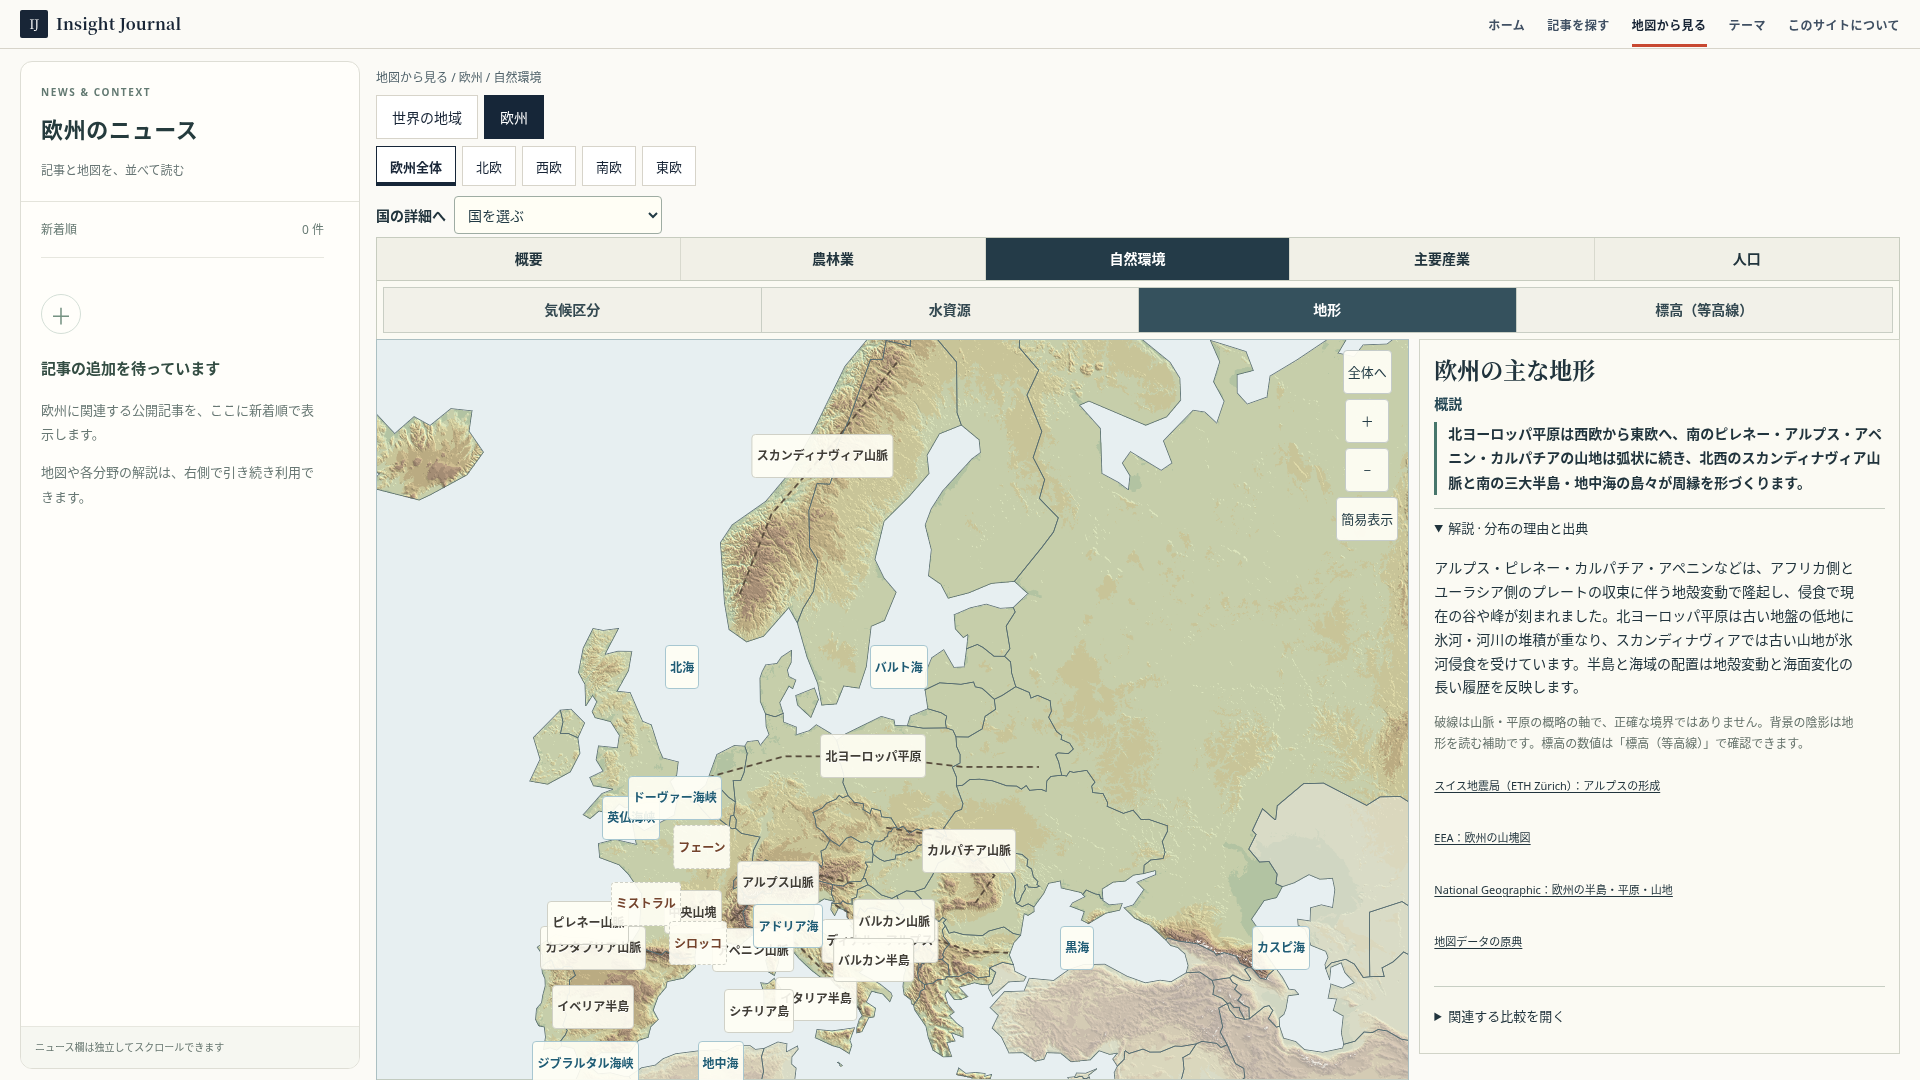
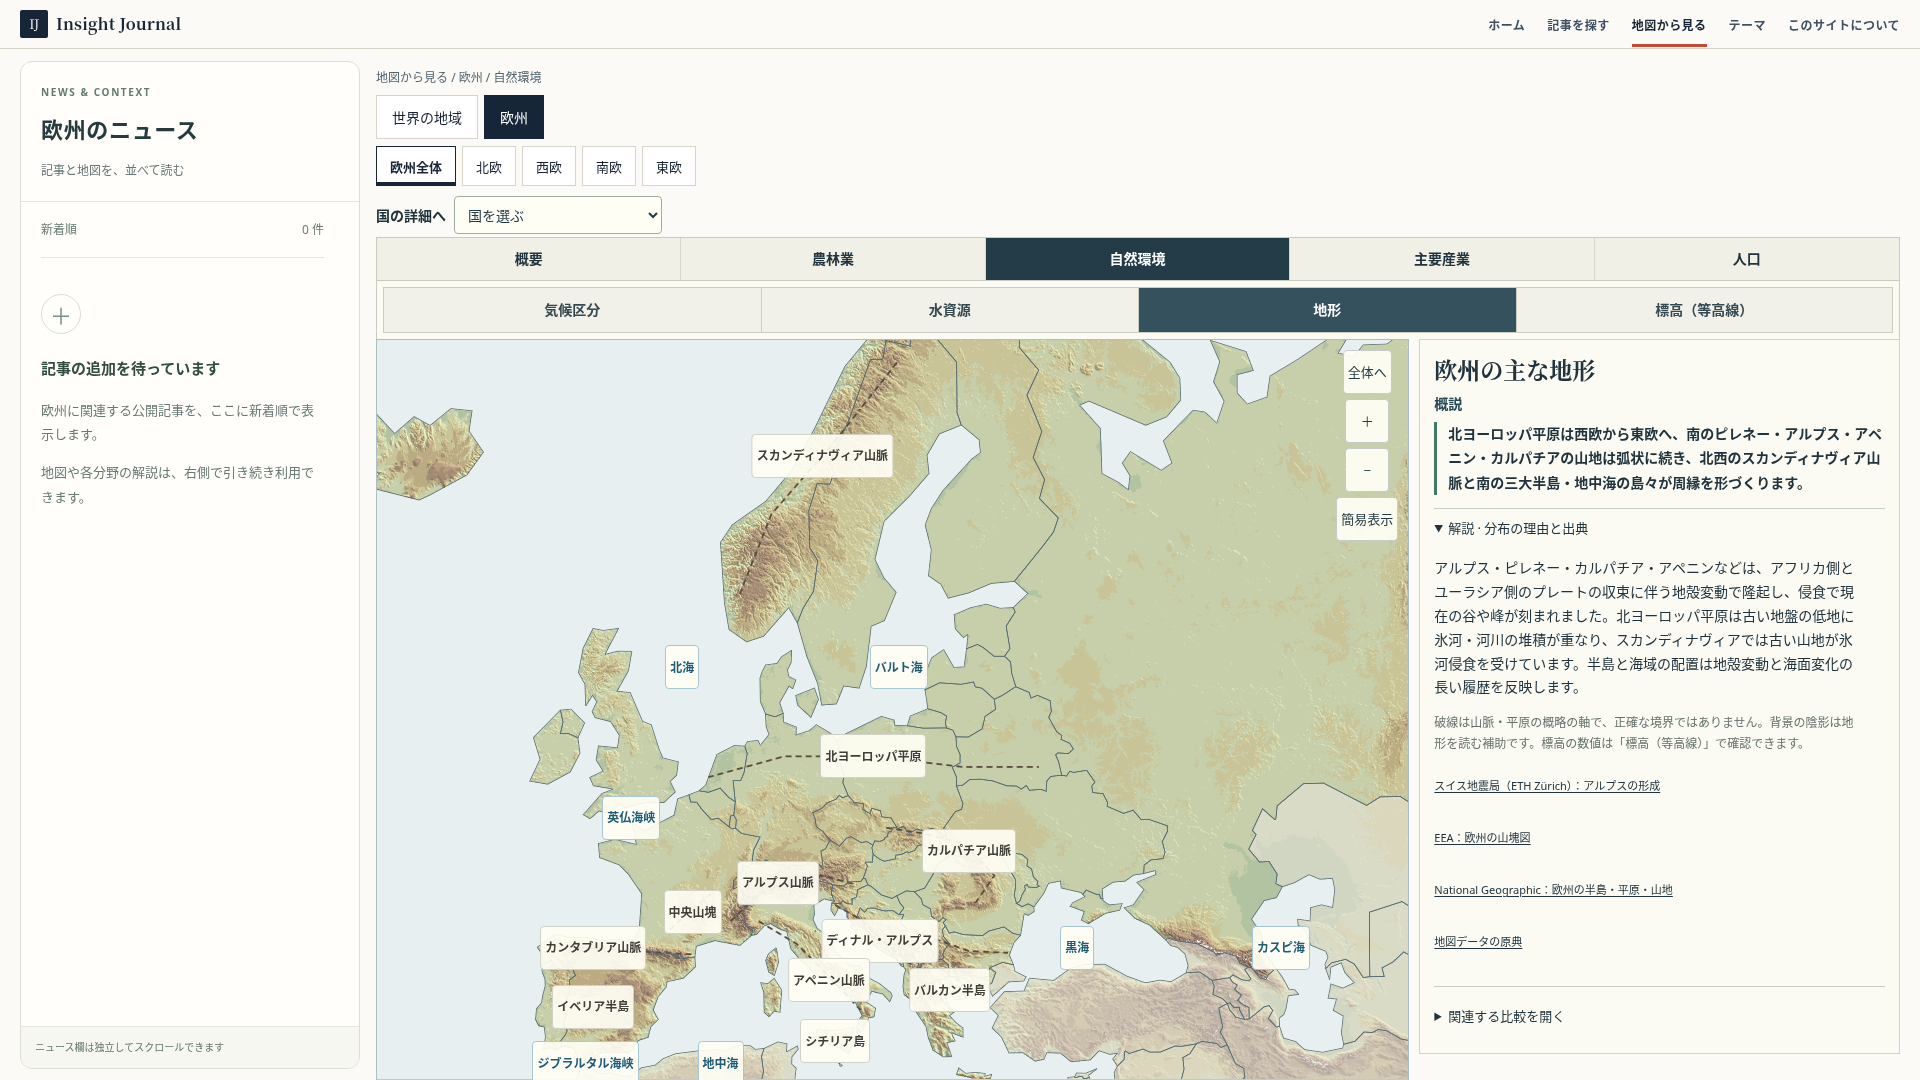
Keep Europe PC selection reachable and preserve culture zoom

Changed region(s): [[0.2812, 0.7028, 0.5312, 0.9778]]

diff --git a/src/lib/atlas-europe-explorer.ts b/src/lib/atlas-europe-explorer.ts
@@ -249,7 +249,7 @@ export function initEuropeAtlas() {
     node.setAttribute('aria-label',`${label.mm} mm等雨量線`);
     query<HTMLElement>('.eu-map-stage').append(node);return {node,label};
   });
-  const terrainLabels=[...europeTerrainGuides,...europeTerrainPlaceNames,...europeTerrainWinds].map(label=>{
+  const terrainLabels=[...europeTerrainGuides,...europeTerrainPlaceNames,...europeTerrainWinds].sort((left,right)=>Number(right.id==='alps')-Number(left.id==='alps')).map(label=>{
     const node=document.createElement('button');node.type='button';node.className='eu-terrain-place-label';
     node.dataset.euTerrainLabel=label.id;node.dataset.kind=label.kind;
     node.textContent=label.name;node.setAttribute('aria-label',`${label.name}の位置と解説`);
@@ -303,6 +303,7 @@ export function initEuropeAtlas() {
         chosen=rect;break;
       }
       if(chosen)placed.push(chosen);
+      else node.hidden=true;
     }
   }
   function setLayer(id:string, save = true) {
@@ -716,13 +717,13 @@ export function initEuropeAtlas() {
     all<SVGGElement>('[data-eu-point],[data-eu-feature-point]').forEach(g=>{const id=g.dataset.euPoint??g.dataset.euFeaturePoint;const p=[...cities,...features].find(p=>p.id===id);if(!p)return;const [x,y]=project(p.coordinates);g.querySelector('circle')?.setAttribute('r',String(5/scale));const label=g.querySelector('text');label?.setAttribute('x',String(x+9/scale));label?.setAttribute('y',String(y-9/scale));if(label)label.style.fontSize=12/scale+'px';});
   }
   function fit() {
-    const initialEthnicity=state.layer==='ethnicity'&&!state.cultureCase;
-    const bounds = initialEthnicity ? [[-6.5,49.8],[2.2,55.9]] as [[number,number],[number,number]] : cultureActive() ? [[frame.west, frame.south], [frame.east, frame.north]] as [[number,number],[number,number]] : selectionBounds();
+    const onsCulture=cultureActive()&&(state.cultureCase==='england-wales-2021'||state.layer==='ethnicity'&&!state.cultureCase);
+    const bounds = onsCulture ? [[-6.5,49.8],[2.2,55.9]] as [[number,number],[number,number]] : cultureActive() ? [[frame.west, frame.south], [frame.east, frame.north]] as [[number,number],[number,number]] : selectionBounds();
     const [left, bottom] = project(bounds[0]);
     const [right, top] = project(bounds[1]);
     const width = Math.max(right - left, 24), height = Math.max(bottom - top, 24);
     box = [(left + right - width) / 2 - width * .12, (top + bottom - height) / 2 - height * .12, width * 1.24, height * 1.24];
-    if (cultureActive()&&!initialEthnicity || subject().field!=='agriculture'&&state.region === 'all' && !state.place&&!comparisonFocus()&&!['industry','population'].includes(subject().field)&&!['climate','water','drainage','precipitation','terrain','contours'].includes(subject().id) || subject().field==='agriculture'&&!comparisonFocus()&&(state.farmExtent==='full'||!farmingView().active)) box = [0, 0, frame.width, frame.height];
+    if (cultureActive()&&!onsCulture || subject().field!=='agriculture'&&state.region === 'all' && !state.place&&!comparisonFocus()&&!['industry','population'].includes(subject().field)&&!['climate','water','drainage','precipitation','terrain','contours'].includes(subject().id) || subject().field==='agriculture'&&!comparisonFocus()&&(state.farmExtent==='full'||!farmingView().active)) box = [0, 0, frame.width, frame.height];
     else if(subject().field==='agriculture'&&!comparisonFocus()) box = [left-width*.04,top-height*.04,width*1.08,height*1.08];
     staticMap.setAttribute('viewBox', box.join(' '));
     staticSymbols();

diff --git a/docs/review/europe-2026-10-11/README.md b/docs/review/europe-2026-10-11/README.md
@@ -25,4 +25,4 @@ Chromium の production preview、1920×1080、MapLibre 読込後の画面を保
 - EEA ECRINSの公式データ取得口はこの環境からHTTP 403となり、河川の源流から河口までの連結と全流域を確定できていない。BasinATLASレベル4の単一区画を全流域とは扱わない。
 - 農畜産の食品群別自給率帯、林業の輸出入先、地下水図、欧州全域の宗教細地域と民族分布は、対応する原表・定義・利用条件が揃うまで未表示とした。既存の出典付き集計は維持した。
 
-検証：`npm test`（1124件成功、3件スキップ）、`npm run build`、`node --test tests/e2e/atlas-europe.test.mjs`。ビルド時はAstro telemetryの設定先を書けるよう `ASTRO_TELEMETRY_DISABLED=1 XDG_CONFIG_HOME=/tmp/insight-journal-config` を指定した。
+検証：`npm test`（1124件成功、3件スキップ）、`npm run build`、`node --test tests/e2e/atlas-europe.test.mjs`、`tests/browser/atlas-europe-pc-review.mjs`（1440×1000・1024×800の操作地図、および1024×800の簡易地図）が成功。ビルド時はAstro telemetryの設定先を書けるよう `ASTRO_TELEMETRY_DISABLED=1 XDG_CONFIG_HOME=/tmp/insight-journal-config` を指定した。
